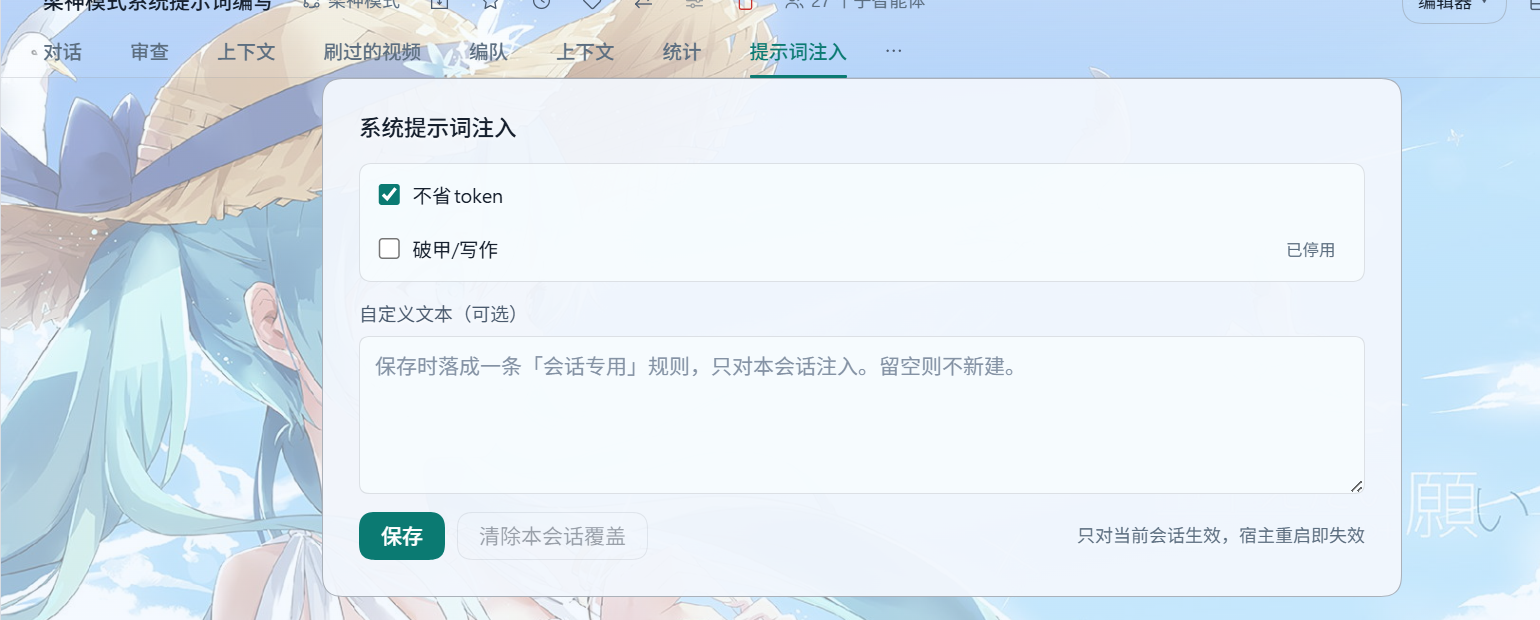
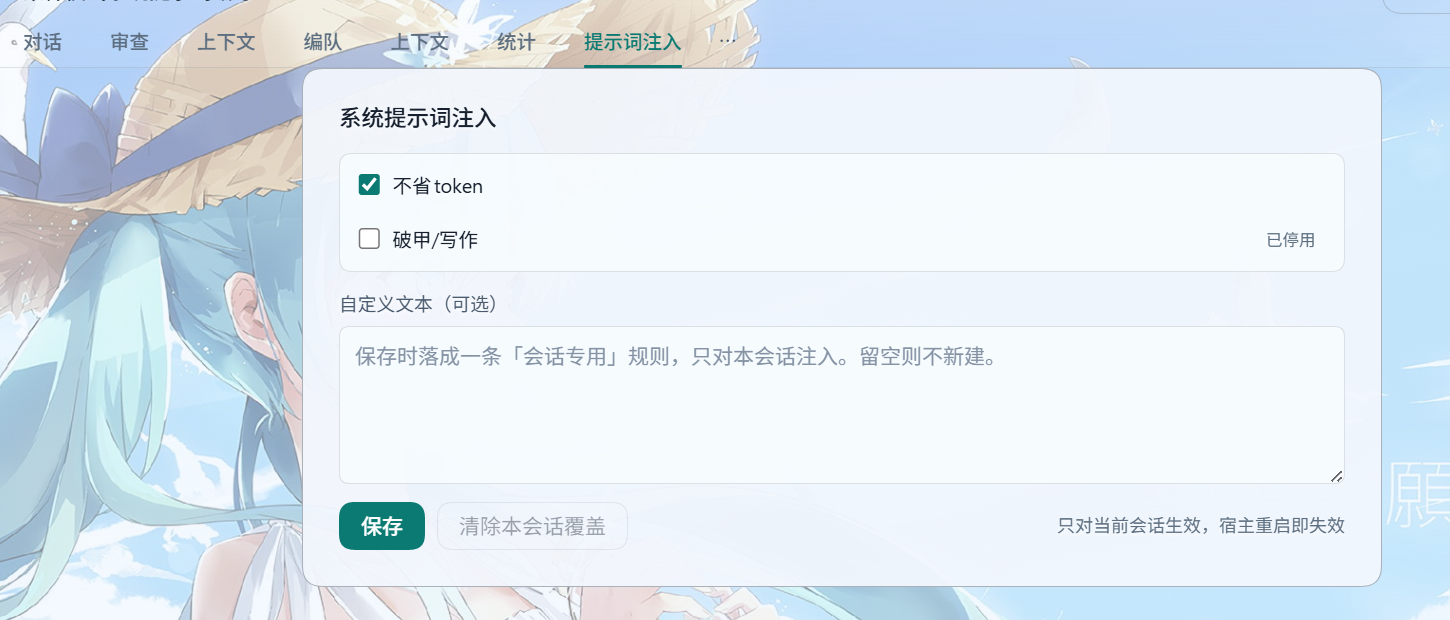
docs: refresh the in-session injection panel shot; drop the chat screenshot

diff --git a/README.md b/README.md
@@ -20,12 +20,6 @@
 
 会话顶部的标签行（「对话 / 审查 / 上下文 / 统计」那一排）里多了一个**提示词注入**标签。点进去勾选本次会话要注入哪几条 —— 这里的勾选会盖掉条件判定。下面的自定义文本框写的东西只属于这次会话，保存后落成一条会话专用规则。
 
-### 三、在对话里看到它
-
-![对话中的注入](docs/inject-in-chat.png)
-
-新开一个会话，让它把系统提示词里以「切记的是」开头的那段原样复述出来 —— 它答出来的就是规则正文。提示词确实进了这次会话的上下，不是我写在这里吓人的说明。
-
 ## 能干什么
 
 | 能力 | 说明 |
@@ -114,12 +108,6 @@ A rule is three things: **a name**, **a body**, and **which sessions it applies 
 ![Session panel](docs/session-panel.png)
 
 The session tab strip (the row with “对话 / 审查 / 上下文 / 统计”) gains a **提示词注入** tab. Tick the rules this session should inject — the ticks override the condition matching. Text typed into the box below becomes a rule that belongs to this session only.
-
-### 3. See it in a conversation
-
-![Injection in a chat](docs/inject-in-chat.png)
-
-Start a new session and ask it to repeat verbatim the paragraph of its system prompt that starts with “切记的是” — what it answers back is the rule body. The prompt really is in that session's context; this is not a description I wrote for effect.
 
 ## What it does
 
